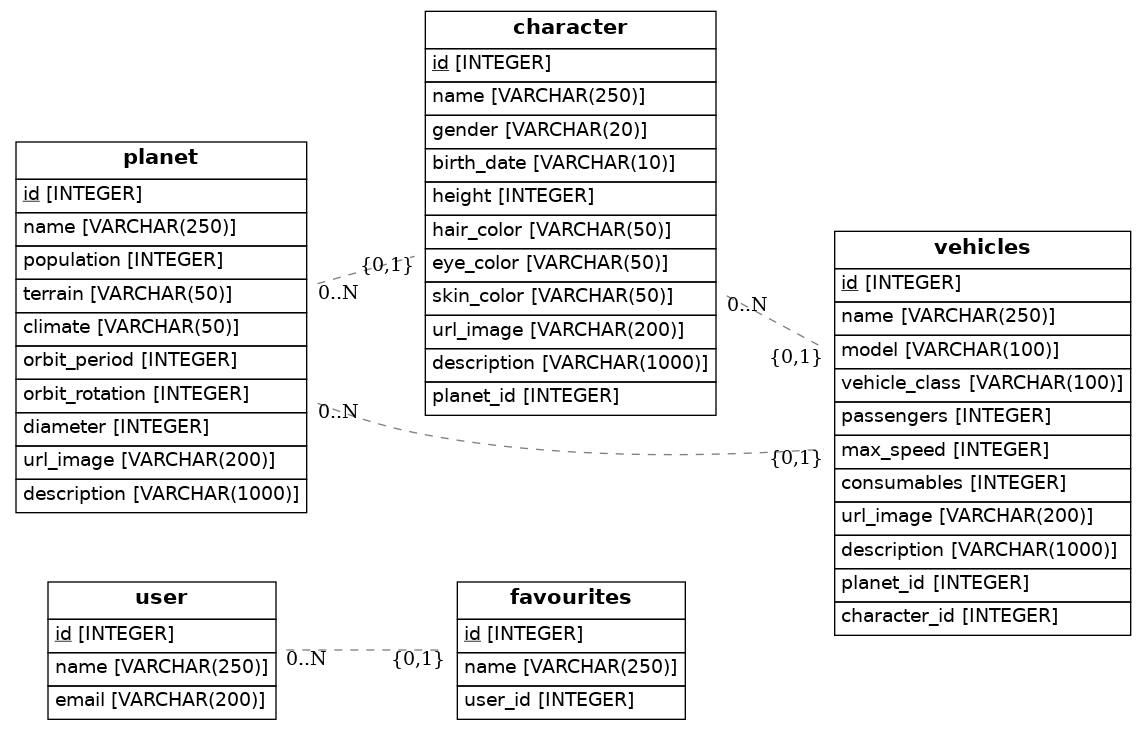
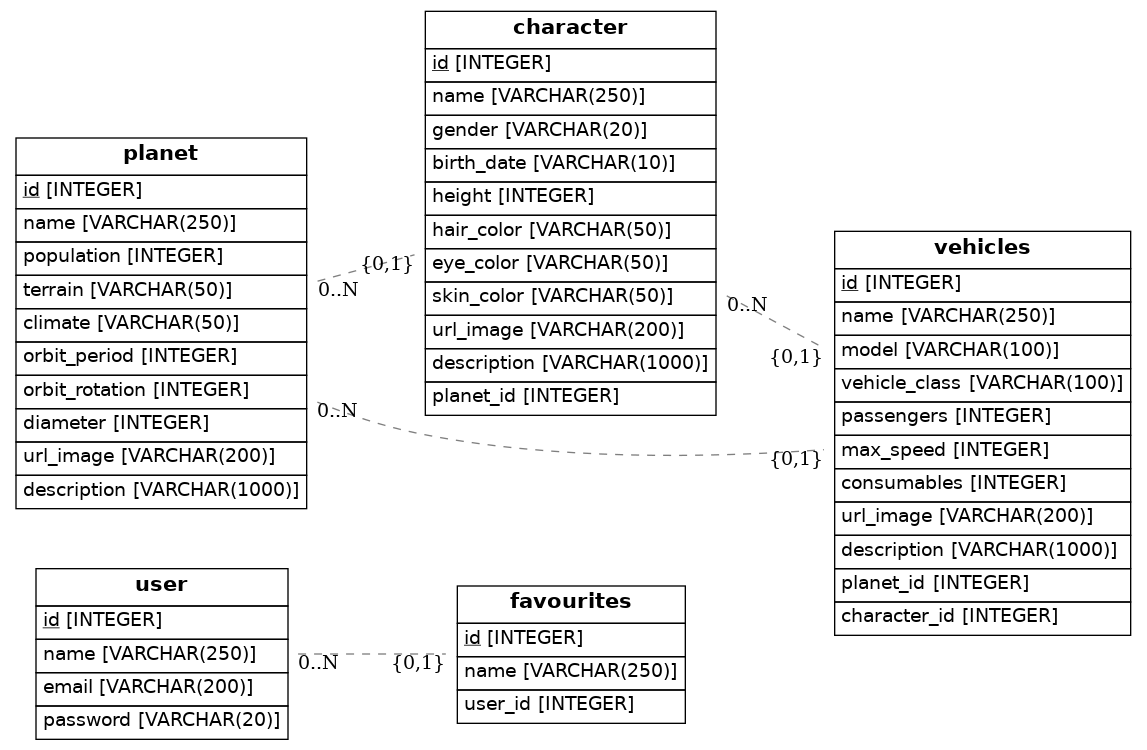
base datos de starwars modificada

diff --git a/src/models.py b/src/models.py
@@ -13,8 +13,9 @@ class User(Base):
     # Here we define columns for the table person
     # Notice that each column is also a normal Python instance attribute.
     id = Column(Integer, primary_key=True)
-    name = Column(String(250), unique = True, nullable = False)
+    name = Column(String(250), nullable = False)
     email = Column(String(200), unique = True, nullable = False)
+    password = Column(String(20), unique = True, nullable = False)
     favourites = relationship('Favourites', backref = 'User')
 
 
